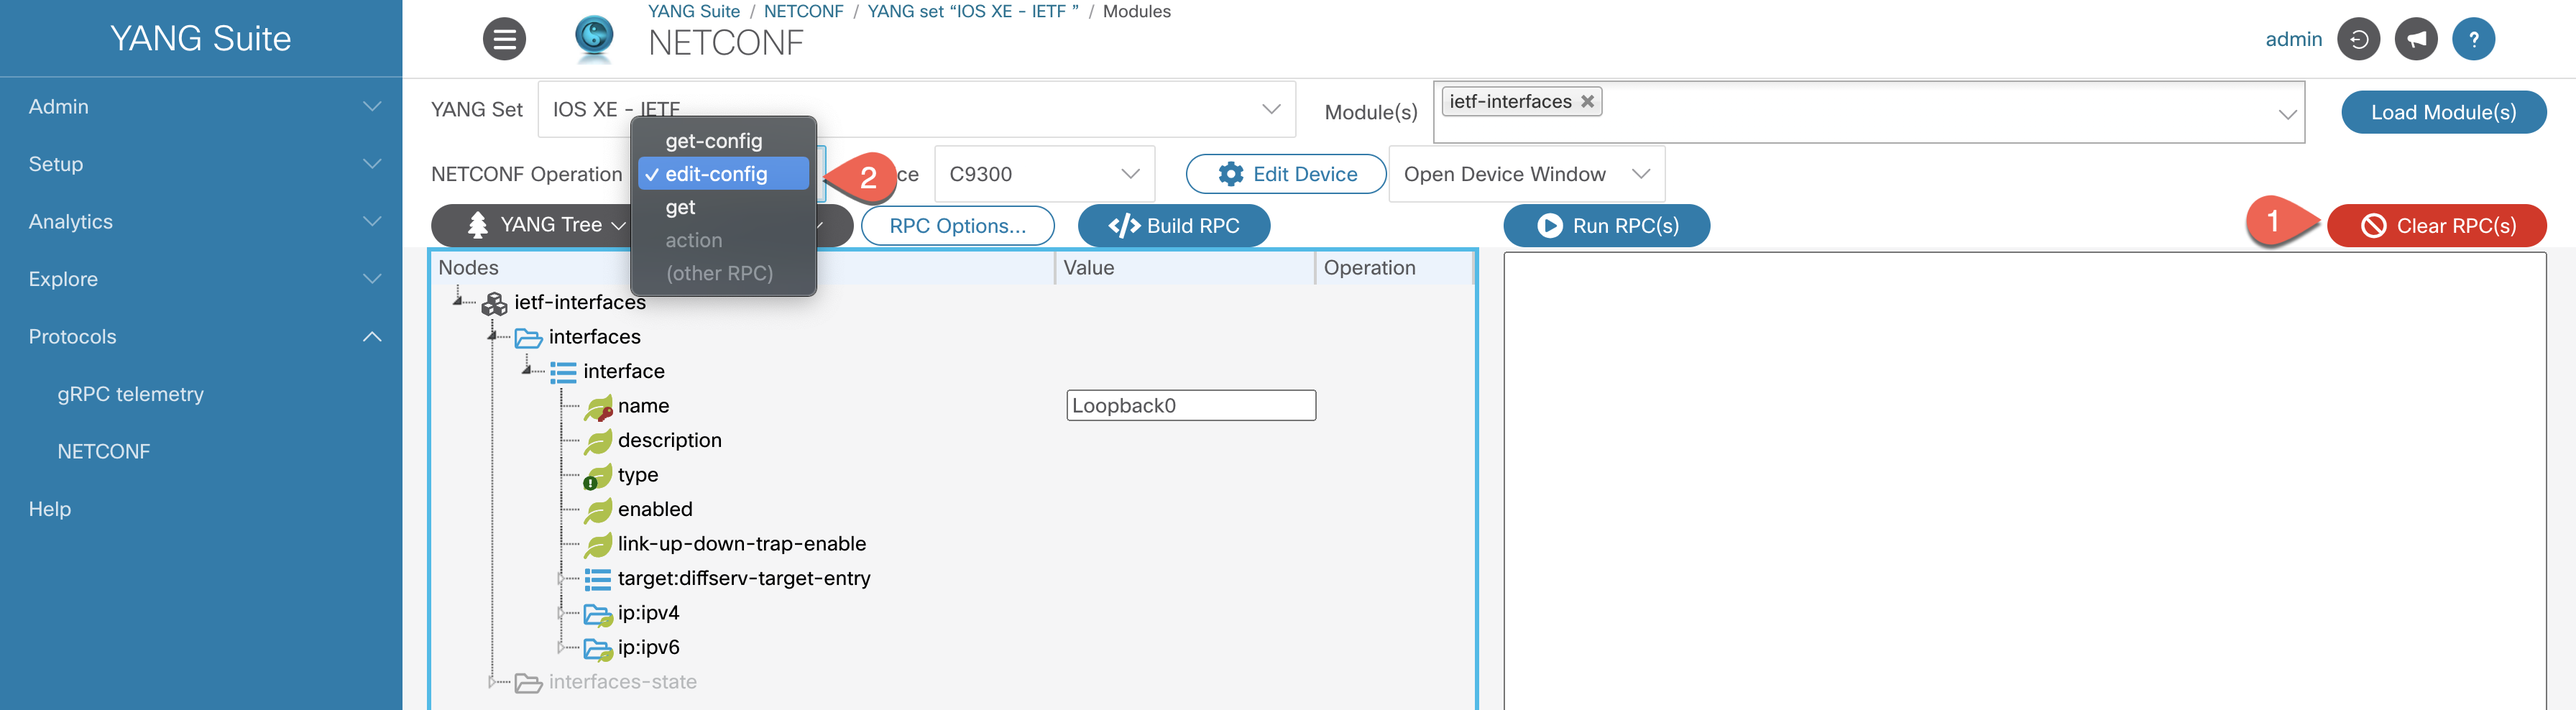
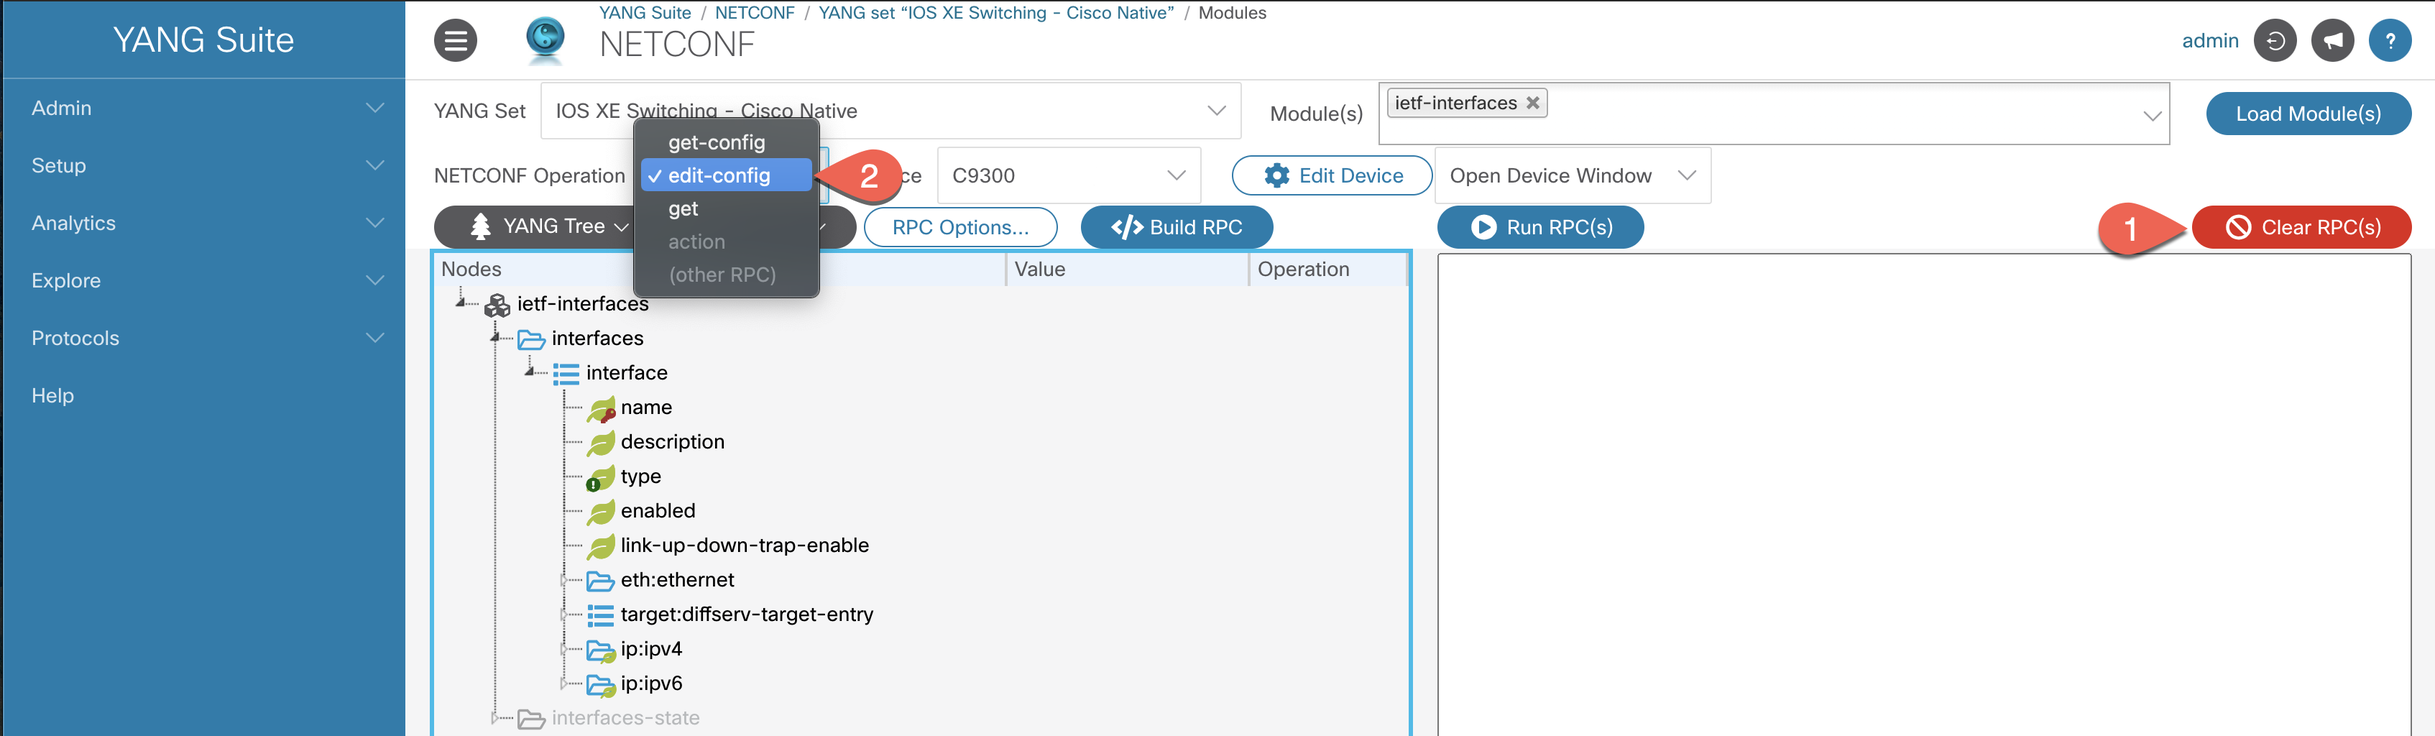
new modifications

diff --git a/README.md b/README.md
@@ -163,7 +163,7 @@ From the menu at the left side of the page select **"Setup"** > **"YANG module s
 
 * Click on **"New YANG set"**.
 
-* Type in name for new YANG set **“IOS XE - IETF”**.
+* Type in name for new YANG set **“IOS XE Switching – Cisco Native”**.
 * Click on **"Create YANG set"**.
 
 ![](imgs/image7.png)
@@ -171,13 +171,11 @@ From the menu at the left side of the page select **"Setup"** > **"YANG module s
 Now we will add YANG Modules to the newly created set.
 
 * In the box on the right, filter for **“Cisco-IOS-XE”** native modules.
-
-* Select all modules from the right box.
-* Click on **"Add selected"**
+* Click on **"Add entire repository"**
 
 ![](imgs/image8.png)
 
-After you add selected YANG modules to the **"IOS XE IETF"** set, click on **"Locate and add missing dependencies"** in the Missing dependencies box on the right side.
+After you add selected YANG modules to the **"IOS XE Switching – Cisco Native"** set, click on **"Locate and add missing dependencies"** in the Missing dependencies box on the right side.
 
 
 ![](imgs/image9.png)
@@ -185,19 +183,20 @@ After you add selected YANG modules to the **"IOS XE IETF"** set, click on **"Lo
 YANG Suite automatically runs a validation check to make sure all the modules dependencies are met and provides an automatic remediation in case some dependencies are missing.
 All the IOS XE Native modes are displayed in the box on the left.
 
-
 ### Step 3: Explore YANG Models
 
 Now that we have a YANG model repository and have identified a YANG model subset of interest, let's explore the data model. From the menu at the left side of the page, select **"Explore" > "YANG"**.
 
-* Select **"IOS XE - IETF"** from the Select a YANG set drop down menu.
+* Click on the Explore menu and then YANG on the left pane
+* Select **"IOS XE Switching – Cisco Native"** from the Select a YANG set drop down menu.
+* Type **“interface”** in the Select YANG modules(s) box and select the **“Cisco-IOS-XE-interfaces-oper”** module.
+* Click on the **"Load module(s)"** button and expand the **“Cisco-IOS-XE-interfaces-oper”** module by clicking on the triangle on the left.
+Refer to the screenshot to examine the structure of the model and its content
 
-* Type **“ietf”** in the **"Select YANG modules(s)"** box and select the **“ietf-interfaces“** module.
-* Click on the **"Load module(s)"** button and expand the **“ietf-interfaces”** module by clicking on the triangle on the left.
 
 After a moment, the left column will be populated with a tree view of the contents of this module. Initially the tree view shows only the module itself, but you can click the triangle icon next to it to expand the tree.
 
-Go ahead and expand various parts of the tree.
+Go ahead and expand various parts of the tree:
 
 ![](imgs/image10.png)
 
@@ -212,7 +211,7 @@ Using a NETCONF get-config RPC to modify device configuration
 
 * Click on the Protocols menu and then NETCONF on the left pane
 
-* Select **"IOS XE - IETF"** module set from the **"Select a YANG set"** drop-down menu
+* Select**"IOS XE Switching – Cisco Native"** module set from the **"Select a YANG set"** drop-down menu
 * Type **"ietf-Interface"** in the Module(s) box, select the **"ietf-Interfaces"** module
 * Select the **"C9300"** from the drop-down list
 * Click on the **"Load Module(s)"** button
@@ -251,7 +250,7 @@ Expand the <span style="color:#B73650; font-weight:bold; background-color:#F8F2F
 
 * Click on the **"Value"** column next to the <span style="color:#B73650; font-weight:bold; background-color:#F8F2F4;">description</span> leaf, and enter a suitable message like **“Cisco Live 2021”**.
 * Click on the **"Operation"** column next to the <span style="color:#B73650; font-weight:bold; background-color:#F8F2F4;">description</span> leaf, and select <span style="color:#B73650; font-weight:bold; background-color:#F8F2F4;">replace</span>.
-Click **"Build RPC"** to construct your <span style="color:#B73650; font-weight:bold; background-color:#F8F2F4;">edit-config </span>  RPC.
+Click **"Build RPC"** to construct your <span style="color:#B73650; font-weight:bold; background-color:#F8F2F4;">edit-config</span> RPC.
 
 ![](imgs/image15.png)
 
